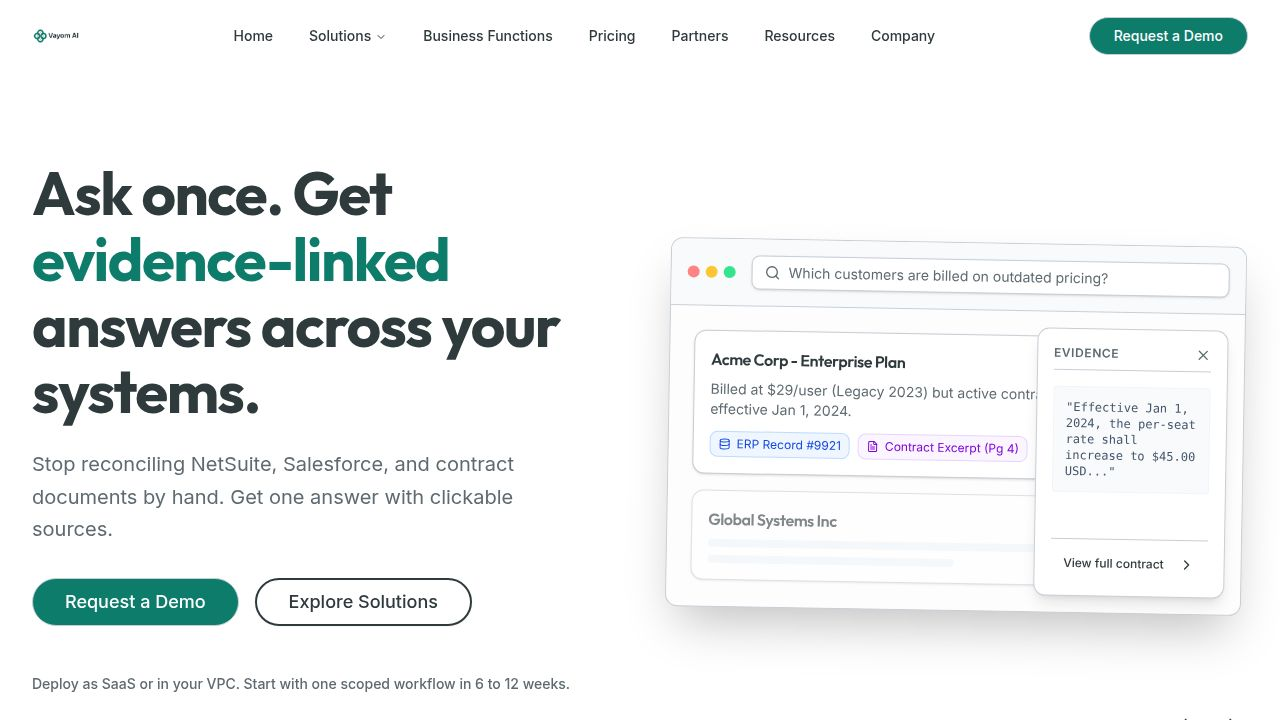
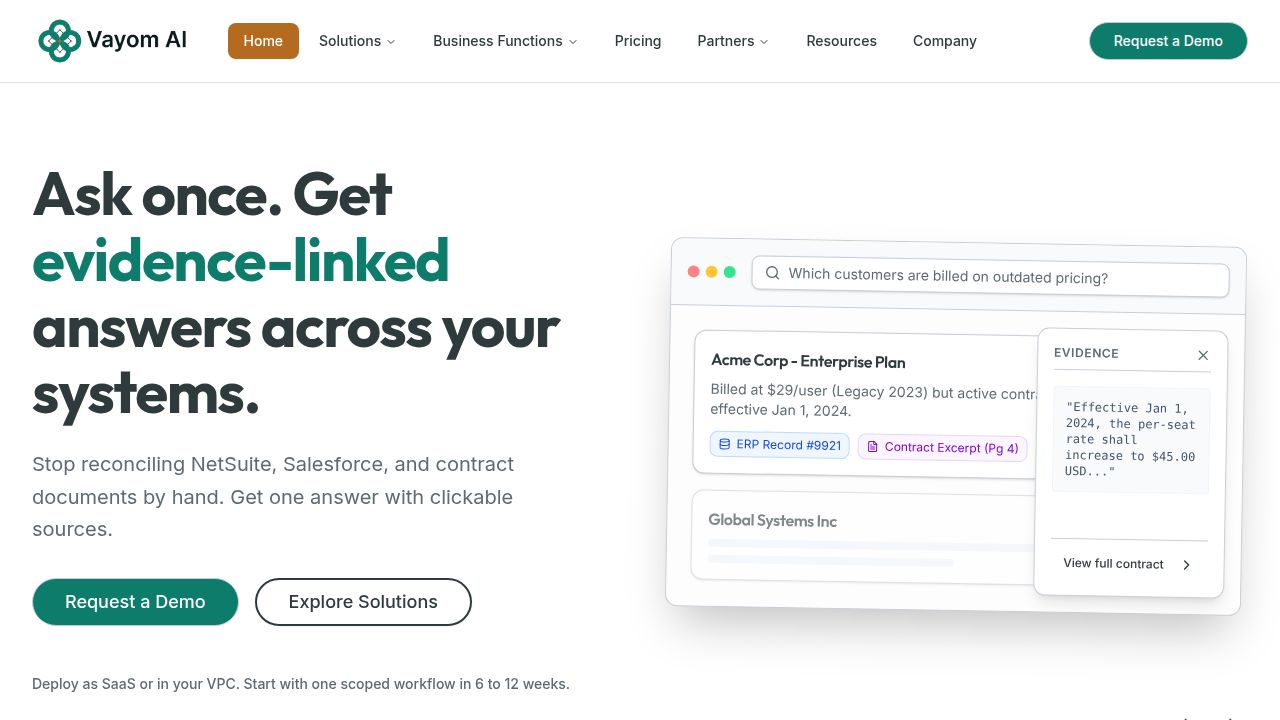
Add spacing to the desktop navigation menu
Add the 'ml-25' class to the desktop navigation div in Header.tsx.

Replit-Commit-Author: Agent
Replit-Commit-Session-Id: c9592f69-5922-46d1-9324-4271db9c75c6
Replit-Commit-Checkpoint-Type: full_checkpoint
Replit-Commit-Event-Id: 2b82860b-3013-4d32-9a71-26871e2a851a
Replit-Commit-Screenshot-Url: https://storage.googleapis.com/screenshot-production-us-central1/d2e1e803-54e8-48c7-bf87-1dd051dc649d/c9592f69-5922-46d1-9324-4271db9c75c6/Y26jdrV
Replit-Helium-Checkpoint-Created: true

Changed region(s): [[0.0312, 0.0306, 0.75, 0.0917], [0.8438, 0.0, 0.9688, 0.0917]]

diff --git a/client/src/components/layout/Header.tsx b/client/src/components/layout/Header.tsx
@@ -82,7 +82,7 @@ export function Header() {
         </Link>
 
         {/* Desktop Nav */}
-        <div className="hidden md:block">
+        <div className="hidden md:block ml-25">
           <NavigationMenu>
             <NavigationMenuList>
               <NavigationMenuItem>
